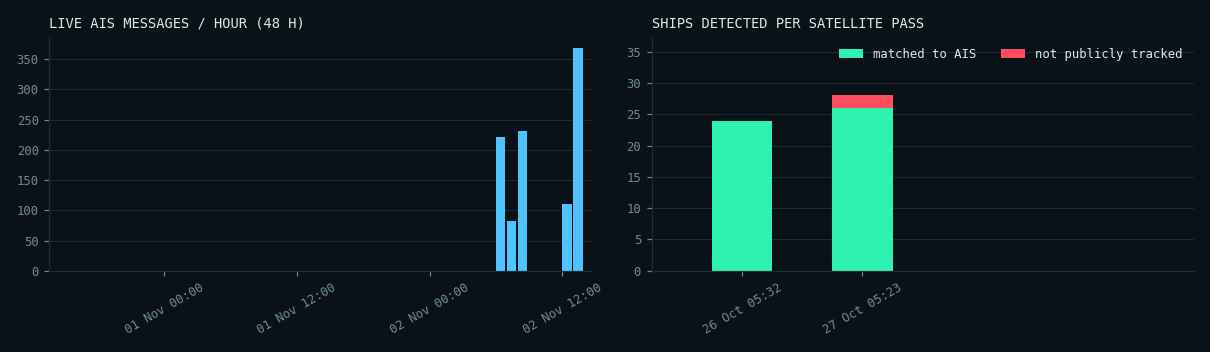
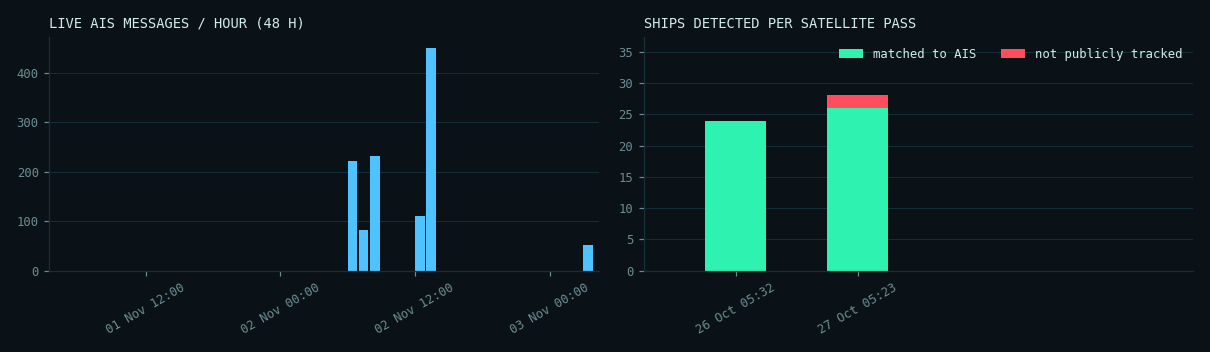
Automatic site update 2026-11-03 03:23 UTC

diff --git a/docs/denmark/index.html b/docs/denmark/index.html
@@ -83,13 +83,13 @@ footer{border-top:1px solid var(--line);padding:18px 0 28px;font:12px/1.6 var(--
   <div><div class="kicker">SAR &times; AIS &middot; MARITIME AWARENESS</div><div class="title">DARK VESSEL <b>DETECTION</b></div></div></a>
  <div class="status"><span class="pill"><span class="dot live"></span>AIS FEED <strong>LIVE</strong></span>
   <span class="pill">UTC <strong id="utc">--:--:--</strong></span>
-  <span class="pill">UPDATED <strong>02 Nov 13:37</strong></span></div>
+  <span class="pill">UPDATED <strong>03 Nov 03:24</strong></span></div>
 </div><nav class="tabs"><a class="" href="../index.html">OVERVIEW</a><a class="" href="../mumbai/index.html">MUMBAI</a><a class="on" href="../denmark/index.html">DENMARK</a><a class="" href="../nn/index.html">NEURAL NET</a><a class="" href="../demo/index.html">SIMULATION</a></nav></div></header>
 <main class="wrap"><div class="coords">SECTOR // DENMARK &middot; 55.55&ndash;55.85&deg;N &middot; 12.55&ndash;12.95&deg;E</div>
 <h1>Oresund, Copenhagen (Denmark/Sweden)</h1><p class="lede">Validation area. Sentinel-1 images it almost daily and coastal AIS coverage is dense, so the full match between radar and AIS can be shown and checked.</p>
 <div class="grid">
  <div class="panel"><div class="label">Live AIS feed</div><div class="value small"><span class='ok'>RECEIVING</span></div><div class="muted mono" style="font-size:12px;margin-top:6px">last message 0 min ago</div></div>
- <div class="panel"><div class="label">Ships broadcasting &middot; 30 min</div><div class="value cyan">68</div></div>
+ <div class="panel"><div class="label">Ships broadcasting &middot; 30 min</div><div class="value cyan">27</div></div>
  <div class="panel"><div class="label">Matched &middot; latest pass</div><div class="value ">26</div></div>
  <div class="panel"><div class="label">Not tracked &middot; high confidence</div><div class="value red">0</div></div>
  <div class="panel"><div class="label">Not tracked &middot; low confidence</div><div class="value amber">2</div></div>
@@ -98,7 +98,7 @@ footer{border-top:1px solid var(--line);padding:18px 0 28px;font:12px/1.6 var(--
 <div class="legend"><span><i style="background:var(--green)"></i>matched to AIS</span><span><i style="background:var(--red)"></i>not tracked &middot; high confidence</span>
 <span><i style="background:var(--amber)"></i>not tracked &middot; low confidence</span><span><i style="background:var(--cyan)"></i>live AIS position</span></div>
 <div id="map" class="map"></div><script>
-const D=[{"lon": 12.574560869565218, "lat": 55.849597826086956, "length_m": 72.681575622935, "score": 0.6554655519501138, "shore_km": 0.14150886088341372, "status": "matched", "reason": "", "confidence": "high", "crop": "", "ship_prob": 0.9335045218467712}, {"lon": 12.704759174311928, "lat": 55.82280412844037, "length_m": 364.1071436957287, "score": 0.9904753373251979, "shore_km": 9.407061429825474, "status": "matched", "reason": "", "confidence": "high", "crop": "", "ship_prob": 0.9868959784507751}, {"lon": 12.786416463414636, "lat": 55.804669512195126, "length_m": 155.0522474362954, "score": 0.9999646038759398, "shore_km": 4.658419014138412, "status": "matched", "reason": "", "confidence": "high", "crop": "", "ship_prob": 0.9993557333946228}, {"lon": 12.88229375, "lat": 55.849146875, "length_m": 53.38783327710226, "score": 0.9899546194309776, "shore_km": 0.9067240720863213, "status": "candidate", "reason": "same_spot_in_another_pass", "confidence": "low", "crop": "crops/S1-Oresund-20261027_37.png", "ship_prob": 0.7905591130256653}, {"lon": 12.604004166666668, "lat": 55.75985, "length_m": 141.84238362073958, "score": 0.6867268898684522, "shore_km": 0.07168283192738693, "status": "matched", "reason": "", "confidence": "high", "crop": "", "ship_prob": 0.5051270127296448}, {"lon": 12.605736764705883, "lat": 55.75241323529412, "length_m": 122.11483240811877, "score": 0.9136889320646264, "shore_km": 0.6454382429486746, "status": "candidate", "reason": "same_spot_in_another_pass", "confidence": "low", "crop": "crops/S1-Oresund-20261027_77.png", "ship_prob": 0.7927113175392151}, {"lon": 12.703722571428573, "lat": 55.77917742857143, "length_m": 223.0817648726515, "score": 0.9996320924909895, "shore_km": 5.943270442766068, "status": "matched", "reason": "", "confidence": "high", "crop": "", "ship_prob": 0.9938097596168518}, {"lon": 12.902757692307693, "lat": 55.75654230769231, "length_m": 65.46226537445588, "score": 0.7187896049600956, "shore_km": 0.03584141596369347, "status": "matched", "reason": "", "confidence": "high", "crop": "", "ship_prob": 0.8691755533218384}, {"lon": 12.589922222222222, "lat": 55.725764814814816, "length_m": 146.45480845096748, "score": 0.9957587025210503, "shore_km": 0.034771280891766385, "status": "matched", "reason": "", "confidence": "high", "crop": "", "ship_prob": 0.9983701109886169}, {"lon": 12.598472047244096, "lat": 55.72077913385827, "length_m": 207.62671185403417, "score": 0.609772230082722, "shore_km": 0.14016751439395445, "status": "matched", "reason": "", "confidence": "high", "crop": "", "ship_prob": 0.6074324250221252}, {"lon": 12.589218, "lat": 55.712854, "length_m": 90.49550243938293, "score": 0.6486089656085543, "shore_km": 0.043464101114707984, "status": "matched", "reason": "", "confidence": "high", "crop": "", "ship_prob": 0.9998902082443237}, {"lon": 12.59024090909091, "lat": 55.71147090909091, "length_m": 162.54265478639104, "score": 1.0, "shore_km": 0.06146752127277559, "status": "matched", "reason": "", "confidence": "high", "crop": "", "ship_prob": 0.9999992847442627}, {"lon": 12.597835937500001, "lat": 55.701648437500005, "length_m": 133.31776511703256, "score": 0.9396217092764791, "shore_km": 0.06789309632894441, "status": "matched", "reason": "", "confidence": "high", "crop": "", "ship_prob": 0.9999727010726929}, {"lon": 12.60914, "lat": 55.69712, "length_m": 65.36743236464424, "score": 0.7827588237578229, "shore_km": 0.03134240904220623, "status": "matched", "reason": "", "confidence": "high", "crop": "", "ship_prob": 0.9867132902145386}, {"lon": 12.668552272727274, "lat": 55.72007840909091, "length_m": 207.26605497726354, "score": 0.6251792307103263, "shore_km": 0.03584141596369347, "status": "matched", "reason": "", "confidence": "high", "crop": "", "ship_prob": 0.9087074398994446}, {"lon": 12.5996, "lat": 55.68885, "length_m": 40.00855981470757, "score": 0.7664068666153926, "shore_km": 0.024587008509110237, "status": "matched", "reason": "", "confidence": "high", "crop": "", "ship_prob": 0.9766618013381958}, {"lon": 12.595819230769232, "lat": 55.67989871794872, "length_m": 127.62371588738732, "score": 0.9426870407335851, "shore_km": 0.05068741655051085, "status": "matched", "reason": "", "confidence": "high", "crop": "", "ship_prob": 0.9998841285705566}, {"lon": 12.594722222222224, "lat": 55.67918888888889, "length_m": 40.64467714079742, "score": 0.7639524834029205, "shore_km": 0.043464101114707984, "status": "matched", "reason": "", "confidence": "high", "crop": "", "ship_prob": 0.9999454021453857}, {"lon": 12.610660714285714, "lat": 55.69618571428572, "length_m": 94.51225356515693, "score": 0.9621795096736379, "shore_km": 0.03134240904220623, "status": "matched", "reason": "", "confidence": "high", "crop": "", "ship_prob": 0.999042809009552}, {"lon": 12.649045000000001, "lat": 55.692155, "length_m": 80.63364746000343, "score": 0.8515033668168979, "shore_km": 0.8863693295037299, "status": "matched", "reason": "", "confidence": "high", "crop": "", "ship_prob": 0.4333752989768982}, {"lon": 12.630751724137932, "lat": 55.685453448275865, "length_m": 125.00287123881988, "score": 0.93629426700422, "shore_km": 0.043464101114707984, "status": "matched", "reason": "", "confidence": "high", "crop": "", "ship_prob": 0.9975905418395996}, {"lon": 12.634987254901962, "lat": 55.677338235294116, "length_m": 276.5478352749318, "score": 0.7686103584091717, "shore_km": 0.024587008509110237, "status": "matched", "reason": "", "confidence": "high", "crop": "", "ship_prob": 0.9729636907577515}, {"lon": 12.68766150442478, "lat": 55.69581814159292, "length_m": 176.8074930452176, "score": 0.923202226335388, "shore_km": 2.6834920471942074, "status": "matched", "reason": "", "confidence": "high", "crop": "", "ship_prob": 0.8427141904830933}, {"lon": 12.65826847826087, "lat": 55.63610108695652, "length_m": 174.21377549767067, "score": 0.9833187000337672, "shore_km": 0.043464101114707984, "status": "matched", "reason": "", "confidence": "high", "crop": "", "ship_prob": 0.9998973608016968}, {"lon": 12.680683333333334, "lat": 55.610910000000004, "length_m": 74.22790892756812, "score": 0.6314184609397504, "shore_km": 0.03134240904220623, "status": "matched", "reason": "", "confidence": "high", "crop": "", "ship_prob": 0.44054293632507324}, {"lon": 12.868352132196163, "lat": 55.60022420042644, "length_m": 299.20726350177785, "score": 0.9999960398718075, "shore_km": 2.8169298200726325, "status": "matched", "reason": "", "confidence": "high", "crop": "", "ship_prob": 0.9967911839485168}, {"lon": 12.680875, "lat": 55.59323, "length_m": 95.51211981545671, "score": 0.7585723176580392, "shore_km": 0.03584141596369347, "status": "matched", "reason": "", "confidence": "high", "crop": "", "ship_prob": 0.797581672668457}, {"lon": 12.706387741935485, "lat": 55.56306903225806, "length_m": 301.4640427512081, "score": 0.9999731380181186, "shore_km": 3.1965238712919084, "status": "matched", "reason": "", "confidence": "high", "crop": "", "ship_prob": 0.9941650032997131}],LIVE=[{"lon": 12.8337, "lat": 55.855716666666666, "sog": 0.0, "age": 27}, {"lon": 12.603506666666668, "lat": 55.76049666666667, "sog": 0.0, "age": 25}, {"lon": 12.59949, "lat": 55.710593333333335, "sog": 0.0, "age": 25}, {"lon": 12.67613, "lat": 55.593624999999996, "sog": 0.0, "age": 24}, {"lon": 12.656921666666667, "lat": 55.41479666666667, "sog": 11.1, "age": 23}, {"lon": 12.832898333333333, "lat": 55.85851, "sog": 0.0, "age": 21}, {"lon": 12.640061666666666, "lat": 55.684023333333336, "sog": 0.0, "age": 21}, {"lon": 12.6065, "lat": 55.71033666666666, "sog": 0.0, "age": 19}, {"lon": 12.598666666666666, "lat": 55.71078333333333, "sog": 0.0, "age": 15}, {"lon": 12.831928333333334, "lat": 55.85404333333334, "sog": 0.0, "age": 15}, {"lon": 12.64897, "lat": 55.40667833333334, "sog": 12.5, "age": 15}, {"lon": 12.630676666666666, "lat": 55.6898, "sog": 0.0, "age": 14}, {"lon": 12.621373333333334, "lat": 55.713726666666666, "sog": 0.0, "age": 14}, {"lon": 12.990338333333334, "lat": 55.626855, "sog": 0.0, "age": 14}, {"lon": 12.719085, "lat": 55.75411333333333, "sog": 0.0, "age": 13}, {"lon": 12.8922, "lat": 55.52373166666666, "sog": 0.0, "age": 13}, {"lon": 12.744416666666666, "lat": 55.993294999999996, "sog": 0.0, "age": 12}, {"lon": 12.684236666666667, "lat": 55.94291166666667, "sog": 0.0, "age": 12}, {"lon": 12.481681666666667, "lat": 55.60070833333334, "sog": 0.0, "age": 12}, {"lon": 12.623446666666666, "lat": 55.71207166666667, "sog": 7.2, "age": 11}, {"lon": 12.634875, "lat": 55.68713833333334, "sog": 0.0, "age": 10}, {"lon": 12.671611666666667, "lat": 55.43204, "sog": 14.3, "age": 9}, {"lon": 12.603553333333334, "lat": 55.760585, "sog": 0.0, "age": 9}, {"lon": 12.646913333333334, "lat": 55.67737666666667, "sog": 0.0, "age": 8}, {"lon": 12.935496666666667, "lat": 55.692535, "sog": 0.0, "age": 8}, {"lon": 12.592985, "lat": 55.67926666666666, "sog": 0.0, "age": 8}, {"lon": 12.917751666666668, "lat": 55.63402166666666, "sog": 8.4, "age": 7}, {"lon": 12.642441666666667, "lat": 55.67903666666667, "sog": 0.0, "age": 7}, {"lon": 12.850756666666665, "lat": 55.85891, "sog": 0.0, "age": 7}, {"lon": 12.67826, "lat": 55.934873333333336, "sog": 0.0, "age": 6}, {"lon": 13.03515, "lat": 55.624705, "sog": 0.1, "age": 6}, {"lon": 12.731253333333333, "lat": 55.980738333333335, "sog": 0.0, "age": 6}, {"lon": 13.033366666666666, "lat": 55.624455, "sog": 0.0, "age": 5}, {"lon": 12.713305, "lat": 55.452396666666665, "sog": 8.0, "age": 5}, {"lon": 12.594921666666666, "lat": 55.682469999999995, "sog": 0.0, "age": 5}, {"lon": 12.474186666666666, "lat": 55.48911666666667, "sog": 8.1, "age": 4}, {"lon": 12.999793333333335, "lat": 55.618365000000004, "sog": 0.0, "age": 4}, {"lon": 12.678213333333334, "lat": 55.7513, "sog": 9.4, "age": 4}, {"lon": 12.835296666666666, "lat": 55.85993, "sog": 0.0, "age": 4}, {"lon": 12.99622, "lat": 55.623306666666664, "sog": 0.0, "age": 4}, {"lon": 13.033783333333334, "lat": 55.62457166666666, "sog": 0.0, "age": 3}, {"lon": 12.828345, "lat": 55.86146333333333, "sog": 0.0, "age": 3}, {"lon": 12.680399999999999, "lat": 55.61126, "sog": 0.0, "age": 3}, {"lon": 12.490191666666668, "lat": 55.517806666666665, "sog": 0.0, "age": 3}, {"lon": 12.847633333333333, "lat": 55.58900666666667, "sog": 9.0, "age": 3}, {"lon": 12.8288, "lat": 55.85998, "sog": 0.0, "age": 3}, {"lon": 12.572759999999999, "lat": 55.850825, "sog": 0.0, "age": 3}, {"lon": 12.824833333333334, "lat": 55.86593333333334, "sog": 0.0, "age": 2}, {"lon": 12.989766666666666, "lat": 55.627316666666665, "sog": 0.0, "age": 2}, {"lon": 12.997635, "lat": 55.61358499999999, "sog": 0.1, "age": 2}, {"lon": 12.744426666666667, "lat": 55.99321666666666, "sog": 0.0, "age": 2}, {"lon": 12.625335, "lat": 55.69106166666666, "sog": 0.0, "age": 2}, {"lon": 12.827638333333335, "lat": 55.86269666666667, "sog": 0.0, "age": 1}, {"lon": 12.833283333333332, "lat": 55.8559, "sog": 0.0, "age": 1}, {"lon": 12.59761, "lat": 55.702255, "sog": 0.0, "age": 1}, {"lon": 12.680185, "lat": 55.59284666666667, "sog": 0.0, "age": 1}, {"lon": 12.676826666666667, "lat": 55.79353666666667, "sog": 6.7, "age": 1}, {"lon": 12.49657, "lat": 55.504935, "sog": 8.1, "age": 1}, {"lon": 12.586433333333334, "lat": 55.44223833333333, "sog": 7.5, "age": 1}, {"lon": 13.0585, "lat": 55.675668333333334, "sog": 0.0, "age": 1}, {"lon": 12.915883333333333, "lat": 55.771229999999996, "sog": 1.2, "age": 0}, {"lon": 12.583616666666668, "lat": 55.442593333333335, "sog": 6.6, "age": 0}, {"lon": 12.482458333333334, "lat": 55.60138333333334, "sog": 0.0, "age": 0}, {"lon": 12.702236666666666, "lat": 55.58488833333333, "sog": 11.2, "age": 0}, {"lon": 12.730396666666667, "lat": 55.752050000000004, "sog": 0.0, "age": 0}, {"lon": 12.887783333333335, "lat": 55.63649833333333, "sog": 18.7, "age": 0}, {"lon": 12.823625, "lat": 55.866438333333335, "sog": 0.0, "age": 0}, {"lon": 12.760883333333334, "lat": 55.88801333333333, "sog": 8.9, "age": 0}],B=[[55.55,12.55],[55.85,12.95]];const m=L.map('map',{zoomSnap:.25}).fitBounds(B);
+const D=[{"lon": 12.574560869565218, "lat": 55.849597826086956, "length_m": 72.681575622935, "score": 0.6554655519501138, "shore_km": 0.14150886088341372, "status": "matched", "reason": "", "confidence": "high", "crop": "", "ship_prob": 0.9335045218467712}, {"lon": 12.704759174311928, "lat": 55.82280412844037, "length_m": 364.1071436957287, "score": 0.9904753373251979, "shore_km": 9.407061429825474, "status": "matched", "reason": "", "confidence": "high", "crop": "", "ship_prob": 0.9868959784507751}, {"lon": 12.786416463414636, "lat": 55.804669512195126, "length_m": 155.0522474362954, "score": 0.9999646038759398, "shore_km": 4.658419014138412, "status": "matched", "reason": "", "confidence": "high", "crop": "", "ship_prob": 0.9993557333946228}, {"lon": 12.88229375, "lat": 55.849146875, "length_m": 53.38783327710226, "score": 0.9899546194309776, "shore_km": 0.9067240720863213, "status": "candidate", "reason": "same_spot_in_another_pass", "confidence": "low", "crop": "crops/S1-Oresund-20261027_37.png", "ship_prob": 0.7905591130256653}, {"lon": 12.604004166666668, "lat": 55.75985, "length_m": 141.84238362073958, "score": 0.6867268898684522, "shore_km": 0.07168283192738693, "status": "matched", "reason": "", "confidence": "high", "crop": "", "ship_prob": 0.5051270127296448}, {"lon": 12.605736764705883, "lat": 55.75241323529412, "length_m": 122.11483240811877, "score": 0.9136889320646264, "shore_km": 0.6454382429486746, "status": "candidate", "reason": "same_spot_in_another_pass", "confidence": "low", "crop": "crops/S1-Oresund-20261027_77.png", "ship_prob": 0.7927113175392151}, {"lon": 12.703722571428573, "lat": 55.77917742857143, "length_m": 223.0817648726515, "score": 0.9996320924909895, "shore_km": 5.943270442766068, "status": "matched", "reason": "", "confidence": "high", "crop": "", "ship_prob": 0.9938097596168518}, {"lon": 12.902757692307693, "lat": 55.75654230769231, "length_m": 65.46226537445588, "score": 0.7187896049600956, "shore_km": 0.03584141596369347, "status": "matched", "reason": "", "confidence": "high", "crop": "", "ship_prob": 0.8691755533218384}, {"lon": 12.589922222222222, "lat": 55.725764814814816, "length_m": 146.45480845096748, "score": 0.9957587025210503, "shore_km": 0.034771280891766385, "status": "matched", "reason": "", "confidence": "high", "crop": "", "ship_prob": 0.9983701109886169}, {"lon": 12.598472047244096, "lat": 55.72077913385827, "length_m": 207.62671185403417, "score": 0.609772230082722, "shore_km": 0.14016751439395445, "status": "matched", "reason": "", "confidence": "high", "crop": "", "ship_prob": 0.6074324250221252}, {"lon": 12.589218, "lat": 55.712854, "length_m": 90.49550243938293, "score": 0.6486089656085543, "shore_km": 0.043464101114707984, "status": "matched", "reason": "", "confidence": "high", "crop": "", "ship_prob": 0.9998902082443237}, {"lon": 12.59024090909091, "lat": 55.71147090909091, "length_m": 162.54265478639104, "score": 1.0, "shore_km": 0.06146752127277559, "status": "matched", "reason": "", "confidence": "high", "crop": "", "ship_prob": 0.9999992847442627}, {"lon": 12.597835937500001, "lat": 55.701648437500005, "length_m": 133.31776511703256, "score": 0.9396217092764791, "shore_km": 0.06789309632894441, "status": "matched", "reason": "", "confidence": "high", "crop": "", "ship_prob": 0.9999727010726929}, {"lon": 12.60914, "lat": 55.69712, "length_m": 65.36743236464424, "score": 0.7827588237578229, "shore_km": 0.03134240904220623, "status": "matched", "reason": "", "confidence": "high", "crop": "", "ship_prob": 0.9867132902145386}, {"lon": 12.668552272727274, "lat": 55.72007840909091, "length_m": 207.26605497726354, "score": 0.6251792307103263, "shore_km": 0.03584141596369347, "status": "matched", "reason": "", "confidence": "high", "crop": "", "ship_prob": 0.9087074398994446}, {"lon": 12.5996, "lat": 55.68885, "length_m": 40.00855981470757, "score": 0.7664068666153926, "shore_km": 0.024587008509110237, "status": "matched", "reason": "", "confidence": "high", "crop": "", "ship_prob": 0.9766618013381958}, {"lon": 12.595819230769232, "lat": 55.67989871794872, "length_m": 127.62371588738732, "score": 0.9426870407335851, "shore_km": 0.05068741655051085, "status": "matched", "reason": "", "confidence": "high", "crop": "", "ship_prob": 0.9998841285705566}, {"lon": 12.594722222222224, "lat": 55.67918888888889, "length_m": 40.64467714079742, "score": 0.7639524834029205, "shore_km": 0.043464101114707984, "status": "matched", "reason": "", "confidence": "high", "crop": "", "ship_prob": 0.9999454021453857}, {"lon": 12.610660714285714, "lat": 55.69618571428572, "length_m": 94.51225356515693, "score": 0.9621795096736379, "shore_km": 0.03134240904220623, "status": "matched", "reason": "", "confidence": "high", "crop": "", "ship_prob": 0.999042809009552}, {"lon": 12.649045000000001, "lat": 55.692155, "length_m": 80.63364746000343, "score": 0.8515033668168979, "shore_km": 0.8863693295037299, "status": "matched", "reason": "", "confidence": "high", "crop": "", "ship_prob": 0.4333752989768982}, {"lon": 12.630751724137932, "lat": 55.685453448275865, "length_m": 125.00287123881988, "score": 0.93629426700422, "shore_km": 0.043464101114707984, "status": "matched", "reason": "", "confidence": "high", "crop": "", "ship_prob": 0.9975905418395996}, {"lon": 12.634987254901962, "lat": 55.677338235294116, "length_m": 276.5478352749318, "score": 0.7686103584091717, "shore_km": 0.024587008509110237, "status": "matched", "reason": "", "confidence": "high", "crop": "", "ship_prob": 0.9729636907577515}, {"lon": 12.68766150442478, "lat": 55.69581814159292, "length_m": 176.8074930452176, "score": 0.923202226335388, "shore_km": 2.6834920471942074, "status": "matched", "reason": "", "confidence": "high", "crop": "", "ship_prob": 0.8427141904830933}, {"lon": 12.65826847826087, "lat": 55.63610108695652, "length_m": 174.21377549767067, "score": 0.9833187000337672, "shore_km": 0.043464101114707984, "status": "matched", "reason": "", "confidence": "high", "crop": "", "ship_prob": 0.9998973608016968}, {"lon": 12.680683333333334, "lat": 55.610910000000004, "length_m": 74.22790892756812, "score": 0.6314184609397504, "shore_km": 0.03134240904220623, "status": "matched", "reason": "", "confidence": "high", "crop": "", "ship_prob": 0.44054293632507324}, {"lon": 12.868352132196163, "lat": 55.60022420042644, "length_m": 299.20726350177785, "score": 0.9999960398718075, "shore_km": 2.8169298200726325, "status": "matched", "reason": "", "confidence": "high", "crop": "", "ship_prob": 0.9967911839485168}, {"lon": 12.680875, "lat": 55.59323, "length_m": 95.51211981545671, "score": 0.7585723176580392, "shore_km": 0.03584141596369347, "status": "matched", "reason": "", "confidence": "high", "crop": "", "ship_prob": 0.797581672668457}, {"lon": 12.706387741935485, "lat": 55.56306903225806, "length_m": 301.4640427512081, "score": 0.9999731380181186, "shore_km": 3.1965238712919084, "status": "matched", "reason": "", "confidence": "high", "crop": "", "ship_prob": 0.9941650032997131}],LIVE=[{"lon": 12.634895, "lat": 55.68713833333334, "sog": 0.0, "age": 3}, {"lon": 12.691875000000001, "lat": 55.52271, "sog": 9.5, "age": 3}, {"lon": 12.64745, "lat": 55.6769, "sog": 0.0, "age": 3}, {"lon": 12.892163333333334, "lat": 55.523723333333336, "sog": 0.0, "age": 3}, {"lon": 12.676278333333332, "lat": 55.93195333333333, "sog": 0.0, "age": 3}, {"lon": 12.633381666666667, "lat": 55.98496, "sog": 9.7, "age": 2}, {"lon": 12.603533333333333, "lat": 55.760598333333334, "sog": 0.0, "age": 2}, {"lon": 12.744448333333334, "lat": 55.993298333333335, "sog": 0.0, "age": 2}, {"lon": 12.82485, "lat": 55.8659, "sog": 0.0, "age": 2}, {"lon": 12.687864999999999, "lat": 55.70601333333333, "sog": 9.5, "age": 1}, {"lon": 12.634103333333334, "lat": 55.67577166666667, "sog": 0.0, "age": 1}, {"lon": 12.68303, "lat": 55.466568333333335, "sog": 11.2, "age": 1}, {"lon": 12.572723333333332, "lat": 55.85082666666666, "sog": 0.0, "age": 1}, {"lon": 12.823559999999999, "lat": 55.86789, "sog": 0.0, "age": 1}, {"lon": 12.675786666666665, "lat": 55.44730333333334, "sog": 11.4, "age": 1}, {"lon": 12.482476666666667, "lat": 55.601416666666665, "sog": 0.0, "age": 1}, {"lon": 12.744433333333335, "lat": 55.993235, "sog": 0.0, "age": 1}, {"lon": 12.625328333333332, "lat": 55.691068333333334, "sog": 0.0, "age": 1}, {"lon": 12.683703333333334, "lat": 55.70784166666667, "sog": 10.3, "age": 0}, {"lon": 12.997251666666667, "lat": 55.613773333333334, "sog": 0.0, "age": 0}, {"lon": 12.850786666666666, "lat": 55.85891, "sog": 0.0, "age": 0}, {"lon": 12.929808333333334, "lat": 55.66486666666666, "sog": 9.7, "age": 0}, {"lon": 12.70526, "lat": 55.73806666666667, "sog": 5.7, "age": 0}, {"lon": 13.058503333333334, "lat": 55.675665, "sog": 0.0, "age": 0}, {"lon": 12.676886666666666, "lat": 55.59396166666667, "sog": 0.0, "age": 0}, {"lon": 12.664046666666668, "lat": 55.720025, "sog": 0.0, "age": 0}, {"lon": 12.828268333333334, "lat": 55.86163833333333, "sog": 0.0, "age": 0}],B=[[55.55,12.55],[55.85,12.95]];const m=L.map('map',{zoomSnap:.25}).fitBounds(B);
 // re-fit once layout has settled: if the container had no size when the map was created, Leaflet falls back to zoom 0
 const refit=()=>{m.invalidateSize();m.fitBounds(B);};setTimeout(refit,0);window.addEventListener('load',refit);
 // standard OSM tiles (no API key), turned into a dark "radar console" basemap with a CSS filter (.radar-tiles)
@@ -116,7 +116,7 @@ L.control.layers(null,{'Radar detections (selected pass)':det,'Live AIS, last 30
 </script>
 <h2>Pass log</h2><div class='tablewrap'><table><thead><tr><th>pass (UTC)</th><th>ships</th><th>matched</th><th>not tracked</th><th>low conf.</th><th>match rate</th><th>AIS msgs</th></tr></thead><tbody><tr><td>2026-10-27 05:23 UTC</td><td>28</td><td class='ok'>26</td><td class='bad'>0</td><td style='color:var(--amber)'>2</td><td>93%</td><td>10687</td></tr><tr><td>2026-10-26 05:32 UTC</td><td>24</td><td class='ok'>24</td><td class='bad'>0</td><td style='color:var(--amber)'>0</td><td>100%</td><td>11603</td></tr></tbody></table></div>
 <h2>Telemetry</h2><img class="chart" src="charts.png" alt="AIS messages per hour and ships detected per pass">
-<p class="muted mono" style="font-size:12px">Feed gaps in the last 24 h: 4 (322 min) &middot; AIS messages in the last hour: 479</p>
+<p class="muted mono" style="font-size:12px">Feed gaps in the last 24 h: 6 (1137 min) &middot; AIS messages in the last hour: 52</p>
 <h2>Recent Sentinel-1 acquisitions</h2><ul class="acq"><li>2026-11-02 05:23 UTC</li><li>2026-11-01 16:44 UTC</li><li>2026-11-01 05:31 UTC</li><li>2026-10-31 16:52 UTC</li><li>2026-10-30 17:00 UTC</li><li>2026-10-27 05:23 UTC</li><li>2026-10-26 05:32 UTC</li><li>2026-10-25 16:52 UTC</li></ul></main>
 <footer><div class="wrap">Data: Copernicus Sentinel-1 (ESA) &middot; AIS via aisstream.io and the Danish Maritime Authority &middot;
 coastlines, structures and basemap &copy; OpenStreetMap contributors. Flags are candidates for review, not accusations.</div></footer>

diff --git a/docs/index.html b/docs/index.html
@@ -83,7 +83,7 @@ footer{border-top:1px solid var(--line);padding:18px 0 28px;font:12px/1.6 var(--
   <div><div class="kicker">SAR &times; AIS &middot; MARITIME AWARENESS</div><div class="title">DARK VESSEL <b>DETECTION</b></div></div></a>
  <div class="status"><span class="pill"><span class="dot live"></span>AIS FEED <strong>LIVE</strong></span>
   <span class="pill">UTC <strong id="utc">--:--:--</strong></span>
-  <span class="pill">UPDATED <strong>02 Nov 13:37</strong></span></div>
+  <span class="pill">UPDATED <strong>03 Nov 03:24</strong></span></div>
 </div><nav class="tabs"><a class="on" href="index.html">OVERVIEW</a><a class="" href="mumbai/index.html">MUMBAI</a><a class="" href="denmark/index.html">DENMARK</a><a class="" href="nn/index.html">NEURAL NET</a><a class="" href="demo/index.html">SIMULATION</a></nav></div></header>
 <main class="wrap"><div class="coords">SYSTEM OVERVIEW</div>
 <h1>Ships the radar sees that nobody is tracking</h1>
@@ -91,7 +91,7 @@ footer{border-top:1px solid var(--line);padding:18px 0 28px;font:12px/1.6 var(--
 This system compares the two for each processed Sentinel-1 pass and lists the ships that appear on radar with no matching AIS signal.</p>
 <div class="grid" style="margin-top:18px"><div class="panel"><div class="label">Satellite passes processed</div><div class="value ">3</div></div><div class="panel"><div class="label">Ships matched to AIS</div><div class="value ">50</div></div>
 <div class="panel"><div class="label">Not tracked &middot; high confidence</div><div class="value red">0</div></div><div class="panel"><div class="label">Not tracked &middot; low confidence</div><div class="value amber">117</div></div>
-<div class="panel"><div class="label">Broadcasting now &middot; 30 min</div><div class="value cyan">68</div></div></div>
+<div class="panel"><div class="label">Broadcasting now &middot; 30 min</div><div class="value cyan">27</div></div></div>
 <p class="muted" style="font-size:13px;margin-top:10px"><b>High confidence</b> = no AIS ship nearby although the AIS feed was healthy and the
 target is within receiver range, and it is not at a spot where something was also seen on another pass. Everything else is
 <b>low confidence</b>: the data cannot support calling it dark (for example Mumbai, where no AIS was available for the pass at all).</p>
@@ -114,14 +114,14 @@ same pipeline using historical AIS. Next expected passes: Mumbai about 5 Nov 01:
 <div class="kv"><span>ships matched to AIS</span><span class="ok">50</span></div>
 <div class="kv"><span>not tracked, high confidence</span><span class="bad">0</span></div>
 <div class="kv"><span>not tracked, low confidence</span><span style="color:var(--amber)">2</span></div>
-<div class="kv"><span>broadcasting now (30 min)</span><span style="color:var(--cyan)">68</span></div>
+<div class="kv"><span>broadcasting now (30 min)</span><span style="color:var(--cyan)">27</span></div>
 <div class="go">OPEN SECTOR &rarr;</div></a></div>
 <h2>Read before trusting a flag</h2>
 <div class="alert"><b>"Not publicly tracked" is not "switched off".</b> Small boats often carry no public AIS, free AIS comes from coastal
 receivers with limited range, and ships under about 40 m are not reliably visible to the satellite. Low-confidence flags are the ones the
 data cannot support: beyond receiver range, during an AIS feed gap, or with no AIS recorded.</div>
 <h2>Automatic runs</h2><p class="muted mono" style="font-size:12.5px;margin-top:-4px">Each row is one automatic website rebuild, with the live AIS counts at that moment. Newest first.</p>
-<div class="tablewrap"><table><thead><tr><th>run (UTC)</th><th>mumbai live</th><th>mumbai msg/h</th><th>denmark live</th><th>denmark msg/h</th></tr></thead><tbody><tr><td>2026-11-02 13:37</td><td>0</td><td>0</td><td>68</td><td>479</td></tr><tr><td>2026-11-02 13:34</td><td>0</td><td>0</td><td>68</td><td>448</td></tr><tr><td>2026-11-02 13:21</td><td>0</td><td>0</td><td>63</td><td>313</td></tr><tr><td>2026-11-02 13:05</td><td>0</td><td>0</td><td>62</td><td>160</td></tr><tr><td>2026-11-02 12:58</td><td>0</td><td>0</td><td>50</td><td>96</td></tr><tr><td>2026-11-02 12:42</td><td>0</td><td>0</td><td>9</td><td>9</td></tr><tr><td>2026-11-02 08:09</td><td>0</td><td>0</td><td>62</td><td>171</td></tr><tr><td>2026-11-02 07:53</td><td>0</td><td>0</td><td>19</td><td>49</td></tr><tr><td>2026-11-02 07:39</td><td>0</td><td>0</td><td>0</td><td>166</td></tr><tr><td>2026-11-02 07:27</td><td>0</td><td>0</td><td>0</td><td>222</td></tr><tr><td>2026-11-02 06:48</td><td>0</td><td>0</td><td>58</td><td>148</td></tr><tr><td>2026-11-02 06:33</td><td>0</td><td>0</td><td>5</td><td>6</td></tr><tr><td>2026-11-02 06:29</td><td>0</td><td>0</td><td>0</td><td>0</td></tr><tr><td>2026-11-02 06:25</td><td>0</td><td>0</td><td>0</td><td>0</td></tr><tr><td>2026-11-02 06:20</td><td>0</td><td>0</td><td>0</td><td>0</td></tr><tr><td>2026-11-02 06:10</td><td>0</td><td>0</td><td>0</td><td>0</td></tr><tr><td>2026-11-02 05:55</td><td>0</td><td>0</td><td>36</td><td>341</td></tr><tr><td>2026-11-02 05:40</td><td>0</td><td>0</td><td>38</td><td>353</td></tr><tr><td>2026-11-02 05:24</td><td>0</td><td>0</td><td>35</td><td>311</td></tr><tr><td>2026-11-02 05:09</td><td>0</td><td>0</td><td>36</td><td>222</td></tr><tr><td>2026-11-02 04:54</td><td>0</td><td>0</td><td>36</td><td>144</td></tr><tr><td>2026-11-02 04:50</td><td>0</td><td>0</td><td>33</td><td>110</td></tr><tr><td>2026-11-02 04:49</td><td>0</td><td>0</td><td>33</td><td>110</td></tr><tr><td>2026-11-02 04:49</td><td>0</td><td>0</td><td>32</td><td>108</td></tr></tbody></table></div></main>
+<div class="tablewrap"><table><thead><tr><th>run (UTC)</th><th>mumbai live</th><th>mumbai msg/h</th><th>denmark live</th><th>denmark msg/h</th></tr></thead><tbody><tr><td>2026-11-03 03:24</td><td>0</td><td>0</td><td>27</td><td>52</td></tr><tr><td>2026-11-02 13:37</td><td>0</td><td>0</td><td>68</td><td>479</td></tr><tr><td>2026-11-02 13:34</td><td>0</td><td>0</td><td>68</td><td>448</td></tr><tr><td>2026-11-02 13:21</td><td>0</td><td>0</td><td>63</td><td>313</td></tr><tr><td>2026-11-02 13:05</td><td>0</td><td>0</td><td>62</td><td>160</td></tr><tr><td>2026-11-02 12:58</td><td>0</td><td>0</td><td>50</td><td>96</td></tr><tr><td>2026-11-02 12:42</td><td>0</td><td>0</td><td>9</td><td>9</td></tr><tr><td>2026-11-02 08:09</td><td>0</td><td>0</td><td>62</td><td>171</td></tr><tr><td>2026-11-02 07:53</td><td>0</td><td>0</td><td>19</td><td>49</td></tr><tr><td>2026-11-02 07:39</td><td>0</td><td>0</td><td>0</td><td>166</td></tr><tr><td>2026-11-02 07:27</td><td>0</td><td>0</td><td>0</td><td>222</td></tr><tr><td>2026-11-02 06:48</td><td>0</td><td>0</td><td>58</td><td>148</td></tr><tr><td>2026-11-02 06:33</td><td>0</td><td>0</td><td>5</td><td>6</td></tr><tr><td>2026-11-02 06:29</td><td>0</td><td>0</td><td>0</td><td>0</td></tr><tr><td>2026-11-02 06:25</td><td>0</td><td>0</td><td>0</td><td>0</td></tr><tr><td>2026-11-02 06:20</td><td>0</td><td>0</td><td>0</td><td>0</td></tr><tr><td>2026-11-02 06:10</td><td>0</td><td>0</td><td>0</td><td>0</td></tr><tr><td>2026-11-02 05:55</td><td>0</td><td>0</td><td>36</td><td>341</td></tr><tr><td>2026-11-02 05:40</td><td>0</td><td>0</td><td>38</td><td>353</td></tr><tr><td>2026-11-02 05:24</td><td>0</td><td>0</td><td>35</td><td>311</td></tr><tr><td>2026-11-02 05:09</td><td>0</td><td>0</td><td>36</td><td>222</td></tr><tr><td>2026-11-02 04:54</td><td>0</td><td>0</td><td>36</td><td>144</td></tr><tr><td>2026-11-02 04:50</td><td>0</td><td>0</td><td>33</td><td>110</td></tr><tr><td>2026-11-02 04:49</td><td>0</td><td>0</td><td>33</td><td>110</td></tr></tbody></table></div></main>
 <footer><div class="wrap">Data: Copernicus Sentinel-1 (ESA) &middot; AIS via aisstream.io and the Danish Maritime Authority &middot;
 coastlines, structures and basemap &copy; OpenStreetMap contributors. Flags are candidates for review, not accusations.</div></footer>
 <script>(function(){const e=document.getElementById('utc');const t=()=>e.textContent=new Date().toISOString().slice(11,19);t();setInterval(t,1000);})();</script>

diff --git a/docs/mumbai/index.html b/docs/mumbai/index.html
@@ -83,7 +83,7 @@ footer{border-top:1px solid var(--line);padding:18px 0 28px;font:12px/1.6 var(--
   <div><div class="kicker">SAR &times; AIS &middot; MARITIME AWARENESS</div><div class="title">DARK VESSEL <b>DETECTION</b></div></div></a>
  <div class="status"><span class="pill"><span class="dot live"></span>AIS FEED <strong>LIVE</strong></span>
   <span class="pill">UTC <strong id="utc">--:--:--</strong></span>
-  <span class="pill">UPDATED <strong>02 Nov 13:36</strong></span></div>
+  <span class="pill">UPDATED <strong>03 Nov 03:23</strong></span></div>
 </div><nav class="tabs"><a class="" href="../index.html">OVERVIEW</a><a class="on" href="../mumbai/index.html">MUMBAI</a><a class="" href="../denmark/index.html">DENMARK</a><a class="" href="../nn/index.html">NEURAL NET</a><a class="" href="../demo/index.html">SIMULATION</a></nav></div></header>
 <main class="wrap"><div class="coords">SECTOR // MUMBAI &middot; 18.80&ndash;19.10&deg;N &middot; 72.55&ndash;72.95&deg;E</div>
 <h1>Mumbai coast and harbour, India</h1><p class="lede">The project's target area. Sentinel-1 images it about once every 12 days, and free AIS comes only from coastal receivers, so many unmatched ships here are simply out of receiver range.</p>
@@ -116,7 +116,7 @@ L.control.layers(null,{'Radar detections (selected pass)':det,'Live AIS, last 30
 </script>
 <h2>Pass log</h2><div class='tablewrap'><table><thead><tr><th>pass (UTC)</th><th>ships</th><th>matched</th><th>not tracked</th><th>low conf.</th><th>match rate</th><th>AIS msgs</th></tr></thead><tbody><tr><td>2026-10-24 01:02 UTC</td><td>115</td><td class='ok'>0</td><td class='bad'>0</td><td style='color:var(--amber)'>115</td><td>0%</td><td>0</td></tr></tbody></table></div>
 <h2>Telemetry</h2><img class="chart" src="charts.png" alt="AIS messages per hour and ships detected per pass">
-<p class="muted mono" style="font-size:12px">Feed gaps in the last 24 h: 4 (322 min) &middot; AIS messages in the last hour: 0</p>
+<p class="muted mono" style="font-size:12px">Feed gaps in the last 24 h: 6 (1137 min) &middot; AIS messages in the last hour: 0</p>
 <h2>Recent Sentinel-1 acquisitions</h2><ul class="acq"><li>2026-10-24 01:02 UTC</li></ul></main>
 <footer><div class="wrap">Data: Copernicus Sentinel-1 (ESA) &middot; AIS via aisstream.io and the Danish Maritime Authority &middot;
 coastlines, structures and basemap &copy; OpenStreetMap contributors. Flags are candidates for review, not accusations.</div></footer>

diff --git a/docs/demo/index.html b/docs/demo/index.html
@@ -83,7 +83,7 @@ footer{border-top:1px solid var(--line);padding:18px 0 28px;font:12px/1.6 var(--
   <div><div class="kicker">SAR &times; AIS &middot; MARITIME AWARENESS</div><div class="title">DARK VESSEL <b>DETECTION</b></div></div></a>
  <div class="status"><span class="pill"><span class="dot live"></span>AIS FEED <strong>LIVE</strong></span>
   <span class="pill">UTC <strong id="utc">--:--:--</strong></span>
-  <span class="pill">UPDATED <strong>02 Nov 13:37</strong></span></div>
+  <span class="pill">UPDATED <strong>03 Nov 03:24</strong></span></div>
 </div><nav class="tabs"><a class="" href="../index.html">OVERVIEW</a><a class="" href="../mumbai/index.html">MUMBAI</a><a class="" href="../denmark/index.html">DENMARK</a><a class="" href="../nn/index.html">NEURAL NET</a><a class="on" href="../demo/index.html">SIMULATION</a></nav></div></header>
 <main class="wrap"><div class="coords">SIMULATION // SYNTHETIC SCENES WITH KNOWN GROUND TRUTH</div>
 <h1>Simulation: the whole pipeline with a known answer</h1>

diff --git a/docs/nn/index.html b/docs/nn/index.html
@@ -83,7 +83,7 @@ footer{border-top:1px solid var(--line);padding:18px 0 28px;font:12px/1.6 var(--
   <div><div class="kicker">SAR &times; AIS &middot; MARITIME AWARENESS</div><div class="title">DARK VESSEL <b>DETECTION</b></div></div></a>
  <div class="status"><span class="pill"><span class="dot live"></span>AIS FEED <strong>LIVE</strong></span>
   <span class="pill">UTC <strong id="utc">--:--:--</strong></span>
-  <span class="pill">UPDATED <strong>02 Nov 13:37</strong></span></div>
+  <span class="pill">UPDATED <strong>03 Nov 03:24</strong></span></div>
 </div><nav class="tabs"><a class="" href="../index.html">OVERVIEW</a><a class="" href="../mumbai/index.html">MUMBAI</a><a class="" href="../denmark/index.html">DENMARK</a><a class="on" href="../nn/index.html">NEURAL NET</a><a class="" href="../demo/index.html">SIMULATION</a></nav></div></header>
 <main class="wrap"><div class="coords">NEURAL NETWORK // SHIPCNN</div>
 <h1>ShipCNN: our own convolutional network that decides "is this a ship?"</h1>
